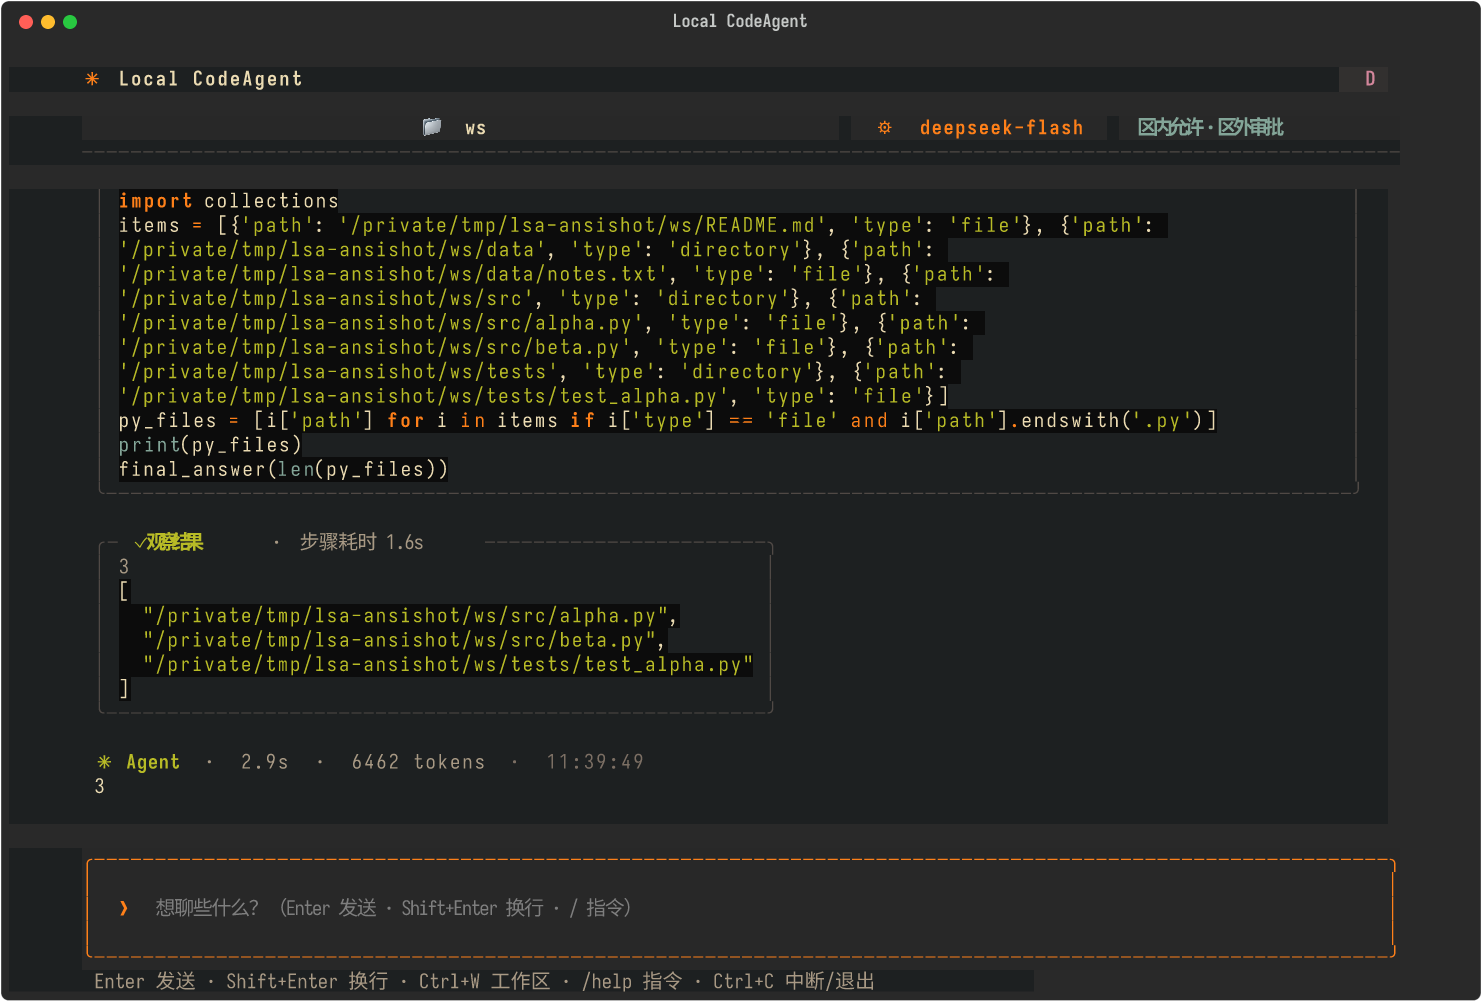
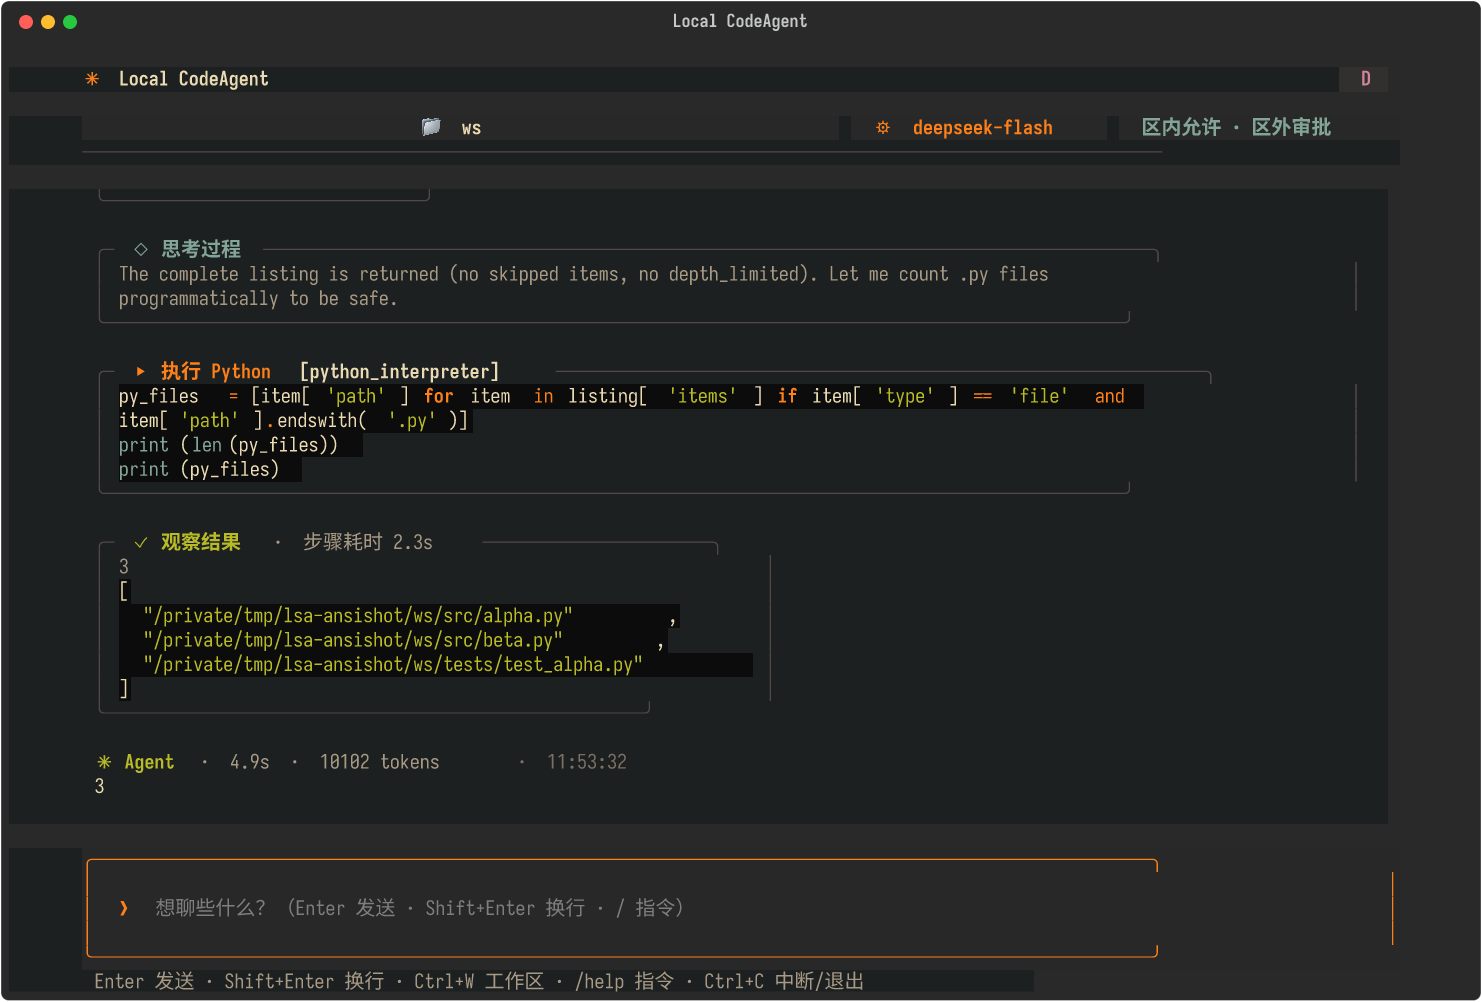
fix(docs): 修复截图中文重影，欢迎页与任务执行双图展示
根因：Rich 导出的 SVG 为每个文本段写死 textLength（按其列宽模型
计算），resvg 会严格执行该压缩；当字体实际 advance 与模型有偏差时
宽字符被压成叠印。移除 textLength 后由 Sarasa Mono SC 的精确 2:1
等宽自然对齐，重影完全消除。

diff --git a/README.md b/README.md
@@ -8,9 +8,11 @@
 
 ## 界面预览
 
-发一个任务，Agent 的思考、代码执行与观察会逐条渲染在时间线里。下面是真实运行的一次提问——统计工作区里的 `.py` 文件数：
+启动后从欢迎页开始。发一个任务，Agent 的思考、代码执行与观察会逐条渲染在时间线里——下面是真实运行的一次提问，统计工作区里的 `.py` 文件数：
 
-![任务执行中的 Local CodeAgent](screenshots/task.png)
+| 欢迎页 | 任务执行 |
+| --- | --- |
+| ![欢迎页](screenshots/welcome.png) | ![任务执行](screenshots/task.png) |
 
 ## 为什么做这个
 
